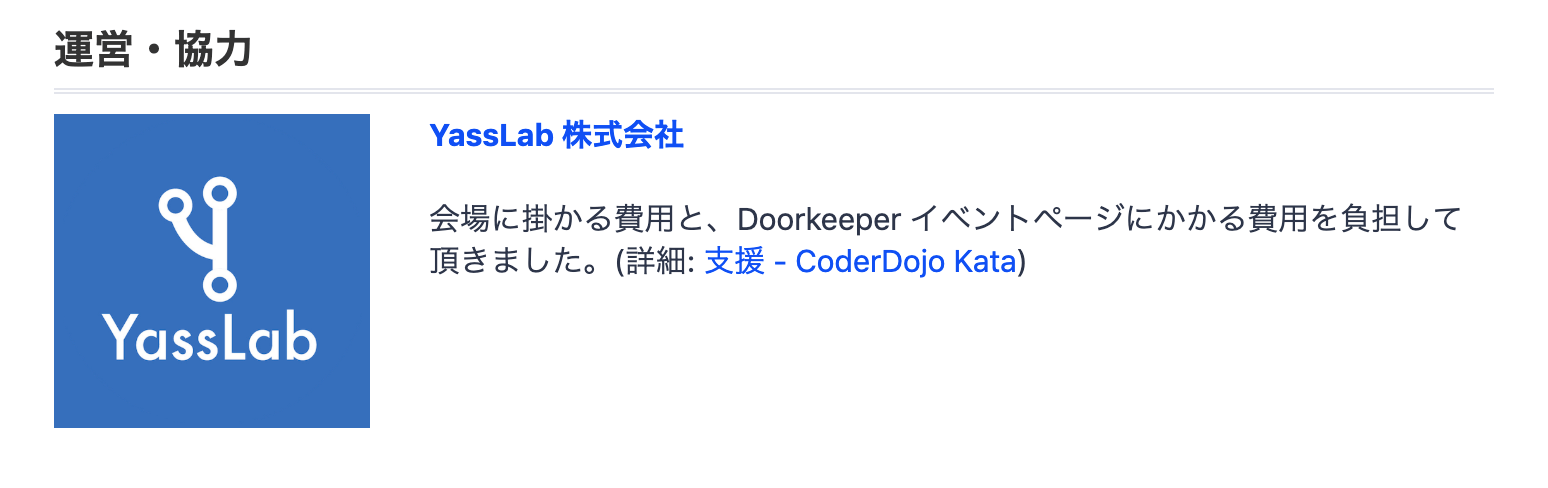
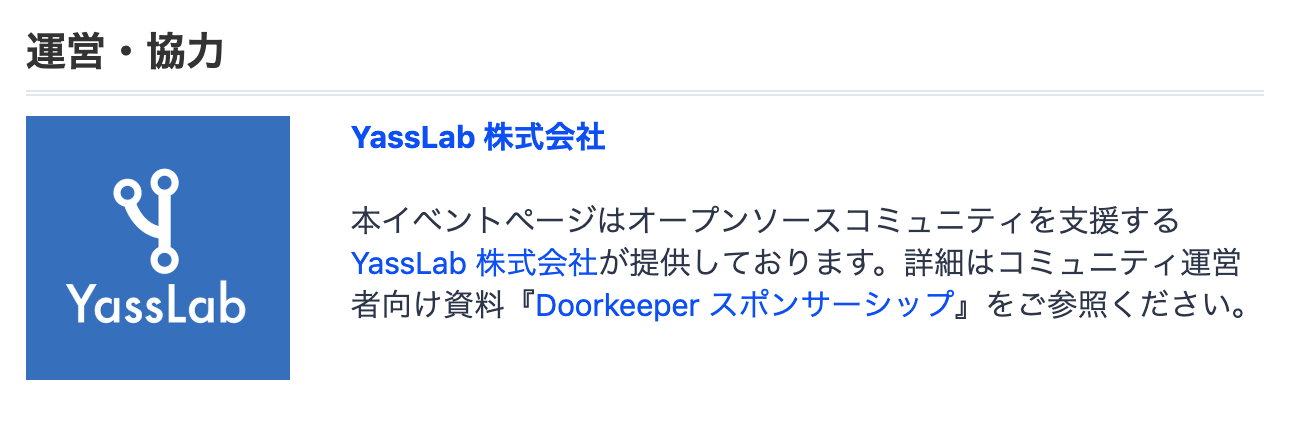
Update examples of Doorkeeper sponsorship

Changed region(s): [[0.0, 0.0616, 0.9922, 0.9242]]

diff --git a/ja/doorkeeper/index.md b/ja/doorkeeper/index.md
@@ -61,16 +61,16 @@ thumbnail: bg-dark.jpg
 
 	<p>特に厳しくチェックするつもりはありませんが、イベントページ下部などに次のようなスポンサー紹介を入れて頂けると助かります! 細かな文言やレイアウトなどは適宜修正して頂いて大丈夫です <g-emoji alias="ok_hand" fallback-src="https://assets-cdn.github.com/images/icons/emoji/unicode/1f44c.png">👌</g-emoji> 弊社ロゴデータは<a href="/ja/brand-assets">ブランドガイドライン</a>からダウンロードできます。</p>
 
-	<h5><a href="https://okinawarb.doorkeeper.jp/events/77519">Okinawa.rb のスポンサー紹介例</a></h5>
+	<h5><a href="https://okinawarb.doorkeeper.jp/events/77519">事例: Okinawa.rb のスポンサー紹介例</a></h5>
 	<p class="imgfit text-center"><a href="https://okinawarb.doorkeeper.jp/events/77519"><img src="/img/doorkeeper-sponsor-example-1.png" alt="Okinawa.rb のスポンサー紹介例" width="100%"></a></p>
 	<p class="imgfit text-center">コピペ用Markdown (改変も可)</p>
 	<div class="highlight highlight-source-gfm">
 	  <pre><span class="pl-mh"><span class="pl-mh">##</span>スポンサー</span>
-本イベントページはオープンソースコミュニティを支援する [<span class="pl-e">YassLab 株式会社</span>](https://yasslab.jp/) が提供しております。詳細はコミュニティ運営者向け [<span class="pl-e">Doorkeeper スポンサー資料</span>](https://yasslab.jp/ja/doorkeeper/)をご参照ください。
+本イベントページはオープンソースコミュニティを支援する [<span class="pl-e">YassLab 株式会社</span>](https://yasslab.jp/) が提供しております。詳細はコミュニティ運営者向け資料『[<span class="pl-e">Doorkeeper スポンサーシップ</span>](https://yasslab.jp/ja/doorkeeper/)』をご参照ください。
 [![<span class="pl-e">YassLab 株式会社</span>](https://yasslab.jp/img/logos/800x200.png)](https://yasslab.jp/)</pre>
 	</div>
 
-	<h5 style="padding-top: 50px;"><a href="https://coderdojo-japan.doorkeeper.jp/events/91507">CoderDojo Japan のスポンサー紹介例</a></h5>
+	<h5 style="padding-top: 80px;"><a href="https://coderdojo-japan.doorkeeper.jp/events/91507">事例: CoderDojo Japan のスポンサー紹介例</a></h5>
 	<p class="imgfit text-center"><a href="https://coderdojo-japan.doorkeeper.jp/events/91507"><img src="/img/doorkeeper-sponsor-example-2.png" alt="CoderDojo Japan のスポンサー紹介例" width="100%"></a></p>
 	<p class="imgfit text-center">コピペ用Markdown (改変も可)</p>
 	<div class="highlight highlight-source-gfm">
@@ -81,7 +81,7 @@ thumbnail: bg-dark.jpg
   <div class=&quot;col-xs-3&quot;><a href=&quot;https://yasslab.jp/&quot;><img src=&quot;https://yasslab.jp/img/logos/500x500.png&quot; alt=&quot;YassLab 株式会社&quot;></a></div>
   <div class=&quot;col-xs-9&quot;>&lt;b&gt;<a href=&quot;https://yasslab.jp/&quot;>YassLab 株式会社</a>&lt;/b&gt;
   &lt;br&gt;&lt;br&gt;
-    会場に掛かる費用と、Doorkeeper イベントページにかかる費用を負担して頂きました。(詳細: <a href=&quot;https://coderdojo.jp/kata#support&quot;>支援 - CoderDojo Kata</a>)
+    本イベントページはオープンソースコミュニティを支援する [YassLab 株式会社](https://yasslab.jp/) が提供しております。詳細はコミュニティ運営者向け資料『[Doorkeeper スポンサーシップ](https://yasslab.jp/ja/doorkeeper/)』をご参照ください。
   </div>
 </div></pre>
 	</div>
